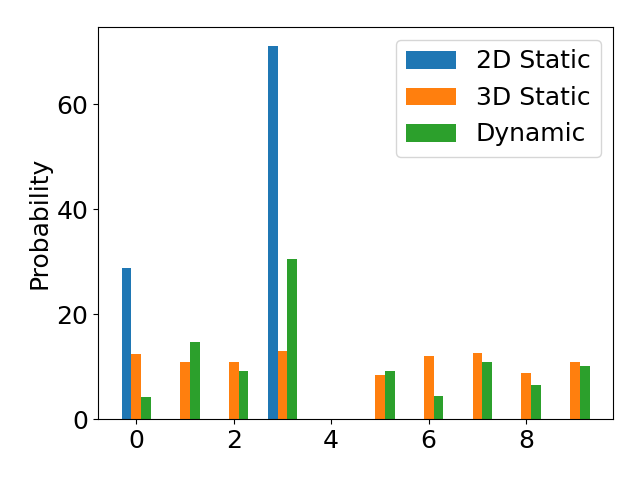
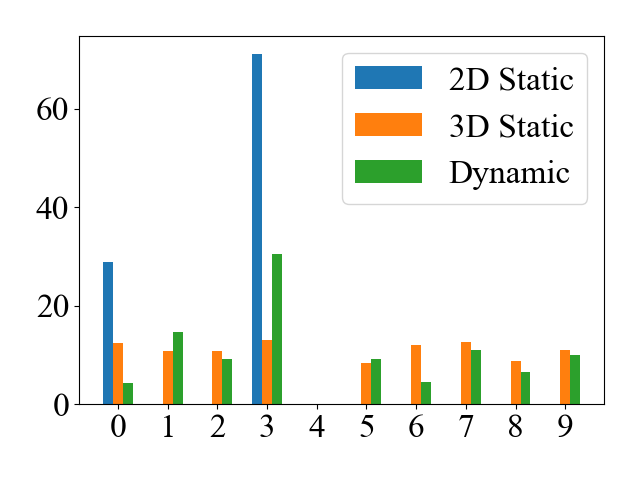
update from amax

diff --git a/isaacgymenvs/encoder/cnn_encoder.py b/isaacgymenvs/encoder/cnn_encoder.py
@@ -21,7 +21,7 @@ object_name = 'tac_data'
 # object_name_4 = '061_foam_brick'
 
 plt.rcParams["font.family"] = 'Times New Roman'
-plt.rcParams["font.size"] = 24
+plt.rcParams["font.size"] = 30
 
 with open(save_dir+object_name+'.pkl','rb') as f:
     d = pickle.load(f)
@@ -138,9 +138,10 @@ def test_epoch(encoder, decoder, device, dataloader, loss_fn):
 def plot_ae_outputs(encoder,decoder,n=10):
     plt.figure(figsize=(16,4.5))
     t_idx = np.random.randint(0,val_data.__len__(),n)
+    t_idx = np.array([500,1500,2500,3500,4500,5500,6500,7500,8500,9500])
     for i in range(n):
       ax = plt.subplot(2,n,i+1)
-      img = val_data[t_idx[i]][0].unsqueeze(0).to(device)
+      img = tactile_dataset[t_idx[i]][0].unsqueeze(0).to(device)
       encoder.eval()
       decoder.eval()
       with torch.no_grad():
@@ -148,14 +149,14 @@ def plot_ae_outputs(encoder,decoder,n=10):
       plt.imshow(img.cpu().squeeze().numpy(), cmap=plt.cm.hot_r)
       ax.get_xaxis().set_visible(False)
       ax.get_yaxis().set_visible(False)
-      if i == n//2:
-        ax.set_title('Original images')
+      # if i == n//2:
+      #   ax.set_title('Original images')
       ax = plt.subplot(2, n, i + 1 + n)
       plt.imshow(rec_img.cpu().squeeze().numpy(), cmap=plt.cm.hot_r)
       ax.get_xaxis().set_visible(False)
       ax.get_yaxis().set_visible(False)
-      if i == n//2:
-         ax.set_title('Reconstructed images')
+      # if i == n//2:
+      #    ax.set_title('Reconstructed images')
     plt.show()
 
 if not if_model:
@@ -175,47 +176,62 @@ if not if_model:
     np.save(os.path.join('./data', task_name + '_train_loss'),np.array(diz_loss['train_loss']))
     np.save(os.path.join('./data', task_name + '_val_loss'),np.array(diz_loss['val_loss']))
 
+if if_model:
 
-    # Plot losses
-    plt.figure(figsize=(10,8))
-    plt.plot(diz_loss['train_loss'], label='Train')
-    plt.plot(diz_loss['val_loss'], label='Valid')
-    plt.xlabel('Epoch')
-    plt.ylabel('Average Loss')
-    #plt.grid()
-    plt.legend()
-    plt.show()
+    # diz_loss = {'train_loss': [], 'val_loss': []}
+    # diz_loss['train_loss'] = np.load('./data/final_2_train_loss.npy')
+    # diz_loss['val_loss'] = np.load('./data/final_2_val_loss.npy')
+    #
+    # # Plot losses
+    # plt.figure(figsize=(10,8))
+    # plt.semilogy(diz_loss['train_loss'], label='Train')
+    # plt.semilogy(diz_loss['val_loss'], label='Valid')
+    # # plt.xlabel('Epoch')
+    # # plt.ylabel('Average Loss')
+    # plt.ylim([0,0.1])
+    # #plt.grid()
+    # plt.legend()
+    # plt.show()
 
-# plot_ae_outputs(encoder, decoder, n=10)
+    # plot_ae_outputs(encoder, decoder, n=10)
 
-encoded_samples = []
+    encoded_samples = []
 
-for sample in val_data.dataset:
-    img = sample[0].unsqueeze(0).to(device)
-    label = sample[1]
-    # Encode image
-    encoder.eval()
-    with torch.no_grad():
-        encoded_img  = encoder(img)
-    # Append to list
-    encoded_img = encoded_img.flatten().cpu().numpy()
-    encoded_sample = {f"Enc. Variable {i}": enc for i, enc in enumerate(encoded_img)}
-    encoded_sample['label'] = label
-    encoded_samples.append(encoded_sample)
+    for sample in val_data.dataset:
+        img = sample[0].unsqueeze(0).to(device)
+        label = sample[1]
+        # Encode image
+        encoder.eval()
+        with torch.no_grad():
+            encoded_img  = encoder(img)
+        # Append to list
+        encoded_img = encoded_img.flatten().cpu().numpy()
+        encoded_sample = {f"Enc. Variable {i}": enc for i, enc in enumerate(encoded_img)}
+        encoded_sample['label'] = label
+        encoded_samples.append(encoded_sample)
 
-import pandas as pd
-encoded_samples = pd.DataFrame(encoded_samples)
+    import pandas as pd
+    encoded_samples = pd.DataFrame(encoded_samples)
 
-import plotly.express as px
+    import plotly.express as px
 
-# fig= px.scatter(encoded_samples, x='Enc. Variable 0', y='Enc. Variable 1',
-#            color=encoded_samples.label.astype(str), opacity=0.7)
-# fig.show()
+    # fig= px.scatter(encoded_samples, x='Enc. Variable 0', y='Enc. Variable 1',
+    #            color=encoded_samples.label.astype(str), opacity=0.7)
+    # fig.show()
 
-tsne = TSNE(n_components=2)
-tsne_results = tsne.fit_transform(encoded_samples.drop(['label'],axis=1))
-fig = px.scatter(tsne_results, x=0, y=1,
-                 color=encoded_samples.label.astype(str),
-                 labels={'0': 'tsne-2d-one', '1': 'tsne-2d-two'})
+    tsne = TSNE(n_components=2)
+    tsne_results = tsne.fit_transform(encoded_samples.drop(['label'],axis=1))
+    fig = px.scatter(tsne_results, x=0, y=1,
+                     color=encoded_samples.label.astype(str),
+                     labels={'0': 'tsne-2d-one', '1': 'tsne-2d-two'})
 
-fig.show()
+    fig.show()
+
+    # label = np.array(encoded_samples.label.astype(float))
+    # fig, ax = plt.subplots()
+    #
+    # scatter = ax.scatter(tsne_results[:,0], tsne_results[:,1],c = label)
+    # legend1 = ax.legend(*scatter.legend_elements(),
+    #                     loc="lower left", title="Classes")
+    # ax.add_artist(legend1)
+    # plt.show()

diff --git a/isaacgymenvs/encoder/Fig4.2.py b/isaacgymenvs/encoder/Fig4.2.py
@@ -2,16 +2,13 @@ import os.path
 
 import torch
 from torch.utils.data import random_split
-from torch_geometric.data import Data
-from torch_geometric.loader import DataLoader
 import pickle
-from gnn import *
 from torch import nn
 import numpy as np
 import matplotlib.pyplot as plt # plotting library
 
 plt.rcParams["font.family"] = 'Times New Roman'
-plt.rcParams["font.size"] = 18
+plt.rcParams["font.size"] = 24
 
 dir_path = 'data/'
 task_name = 'accuracy'
@@ -21,7 +18,7 @@ pro_final_dynamic = np.load(dir_path+'pro_final_dynamic_2.npy')
 pro_final_multi = np.load(dir_path+'pro_final_multi_2.npy')
 
 
-x = np.arange(10)  # the label locations
+x = np.arange(10,dtype=int)  # the label locations
 width = 0.2  # the width of the bars
 
 for i in range(10):
@@ -44,8 +41,8 @@ for i in range(10):
     rects3 = ax.bar(x + width, final_dynamic, width, label='Dynamic')
 
     # Add some text for labels, title and custom x-axis tick labels, etc.
-    ax.set_ylabel('Probability')
-    # ax.set_xticks(x, labels)
+    # ax.set_ylabel('Probability')
+    ax.set_xticks(x)
     ax.legend()
 
     # ax.bar_label(rects1, padding=3)
@@ -54,7 +51,7 @@ for i in range(10):
 
     fig.tight_layout()
     plt.savefig(f'../Pictures/pro_{i}' )
-    plt.show()
+    # plt.show()
 
 
 

diff --git a/isaacgymenvs/encoder/Fig4.py b/isaacgymenvs/encoder/Fig4.py
@@ -2,10 +2,7 @@ import os.path
 
 import torch
 from torch.utils.data import random_split
-from torch_geometric.data import Data
-from torch_geometric.loader import DataLoader
 import pickle
-from gnn import *
 from torch import nn
 import numpy as np
 import matplotlib.pyplot as plt # plotting library
@@ -14,7 +11,7 @@ plt.rcParams["font.family"] = 'Times New Roman'
 plt.rcParams["font.size"] = 24
 
 dir_path = 'data/'
-task_name = 'accuracy'
+task_name = 'train_loss'
 
 loss_cnn = np.load(dir_path+'final_2_classifier_'+task_name+'.npy')
 loss_gnn = np.load(dir_path+'final_multi_2_classifier_'+task_name+'.npy')
@@ -26,10 +23,11 @@ plt.plot(loss_cnn, label='2D Static')
 plt.plot(loss_gnn[:30], label='3D Static')
 plt.plot(loss_lstm, label='Dynamic')
 
-plt.xlabel('Epoch')
-plt.ylabel('Average Loss')
+# plt.xlabel('Epoch')
+# plt.ylabel('Average Loss')
 # plt.grid()
-plt.legend()
+plt.ylim([0,2])
+plt.legend(loc=0)
 # plt.title('loss')
 plt.savefig('../Pictures/'+task_name)
 plt.show()
